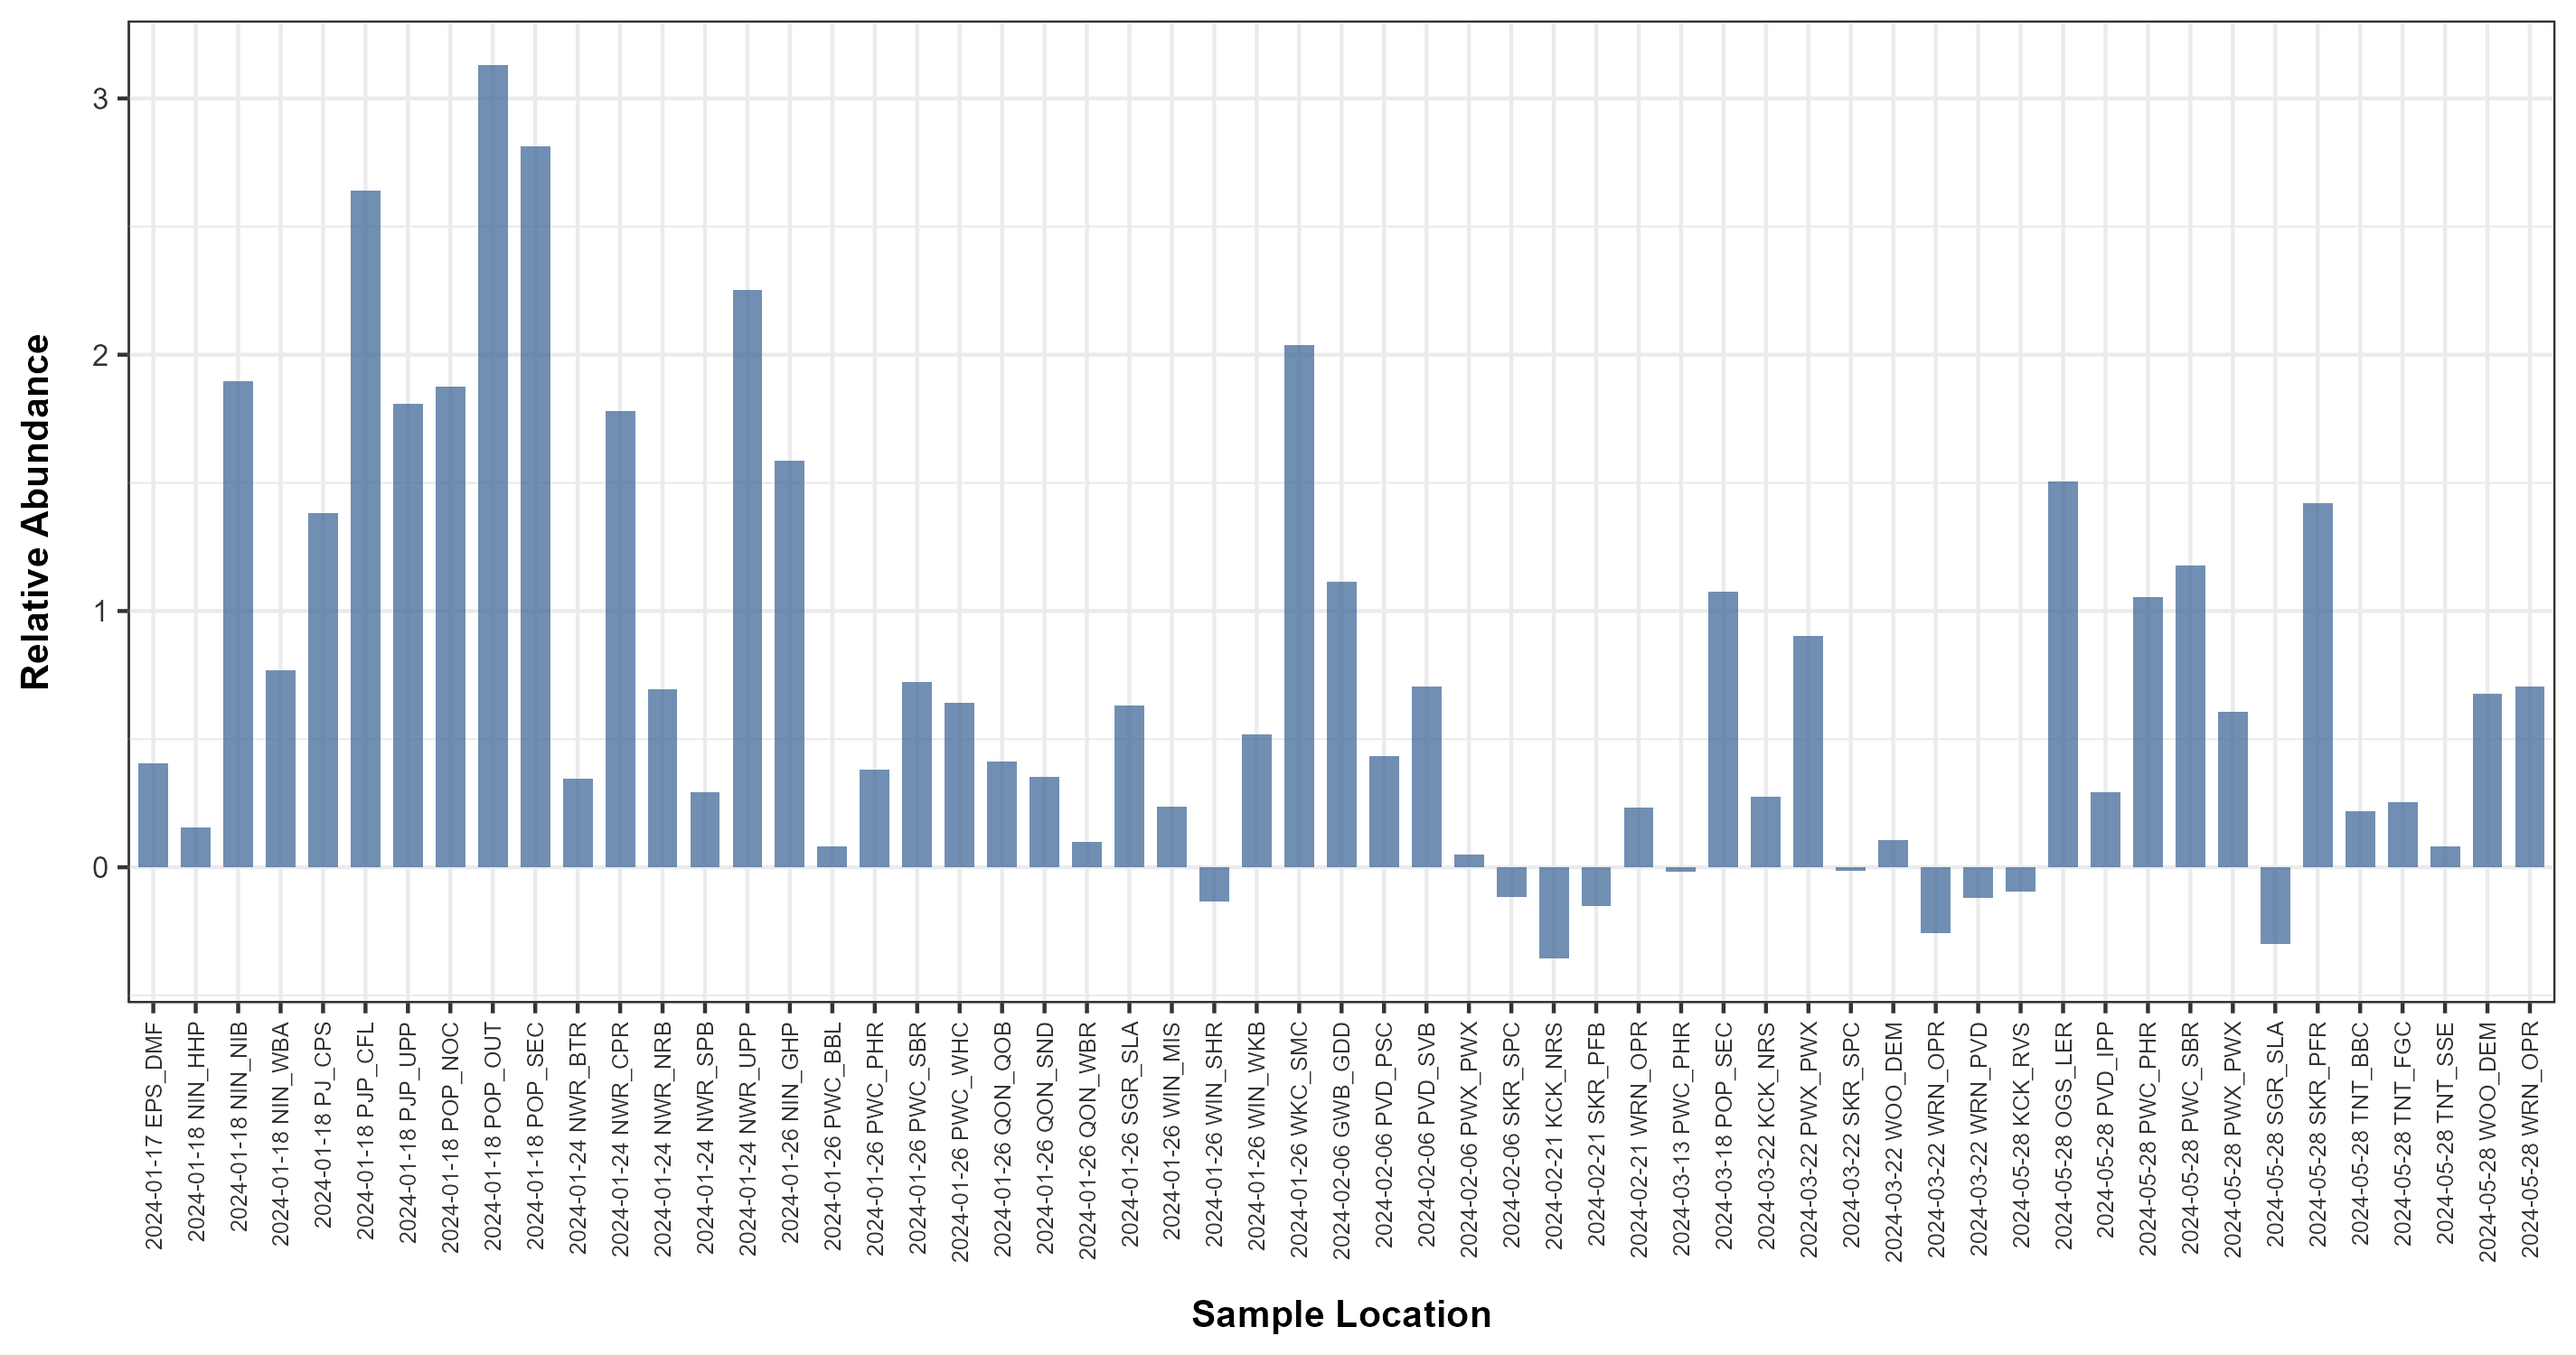
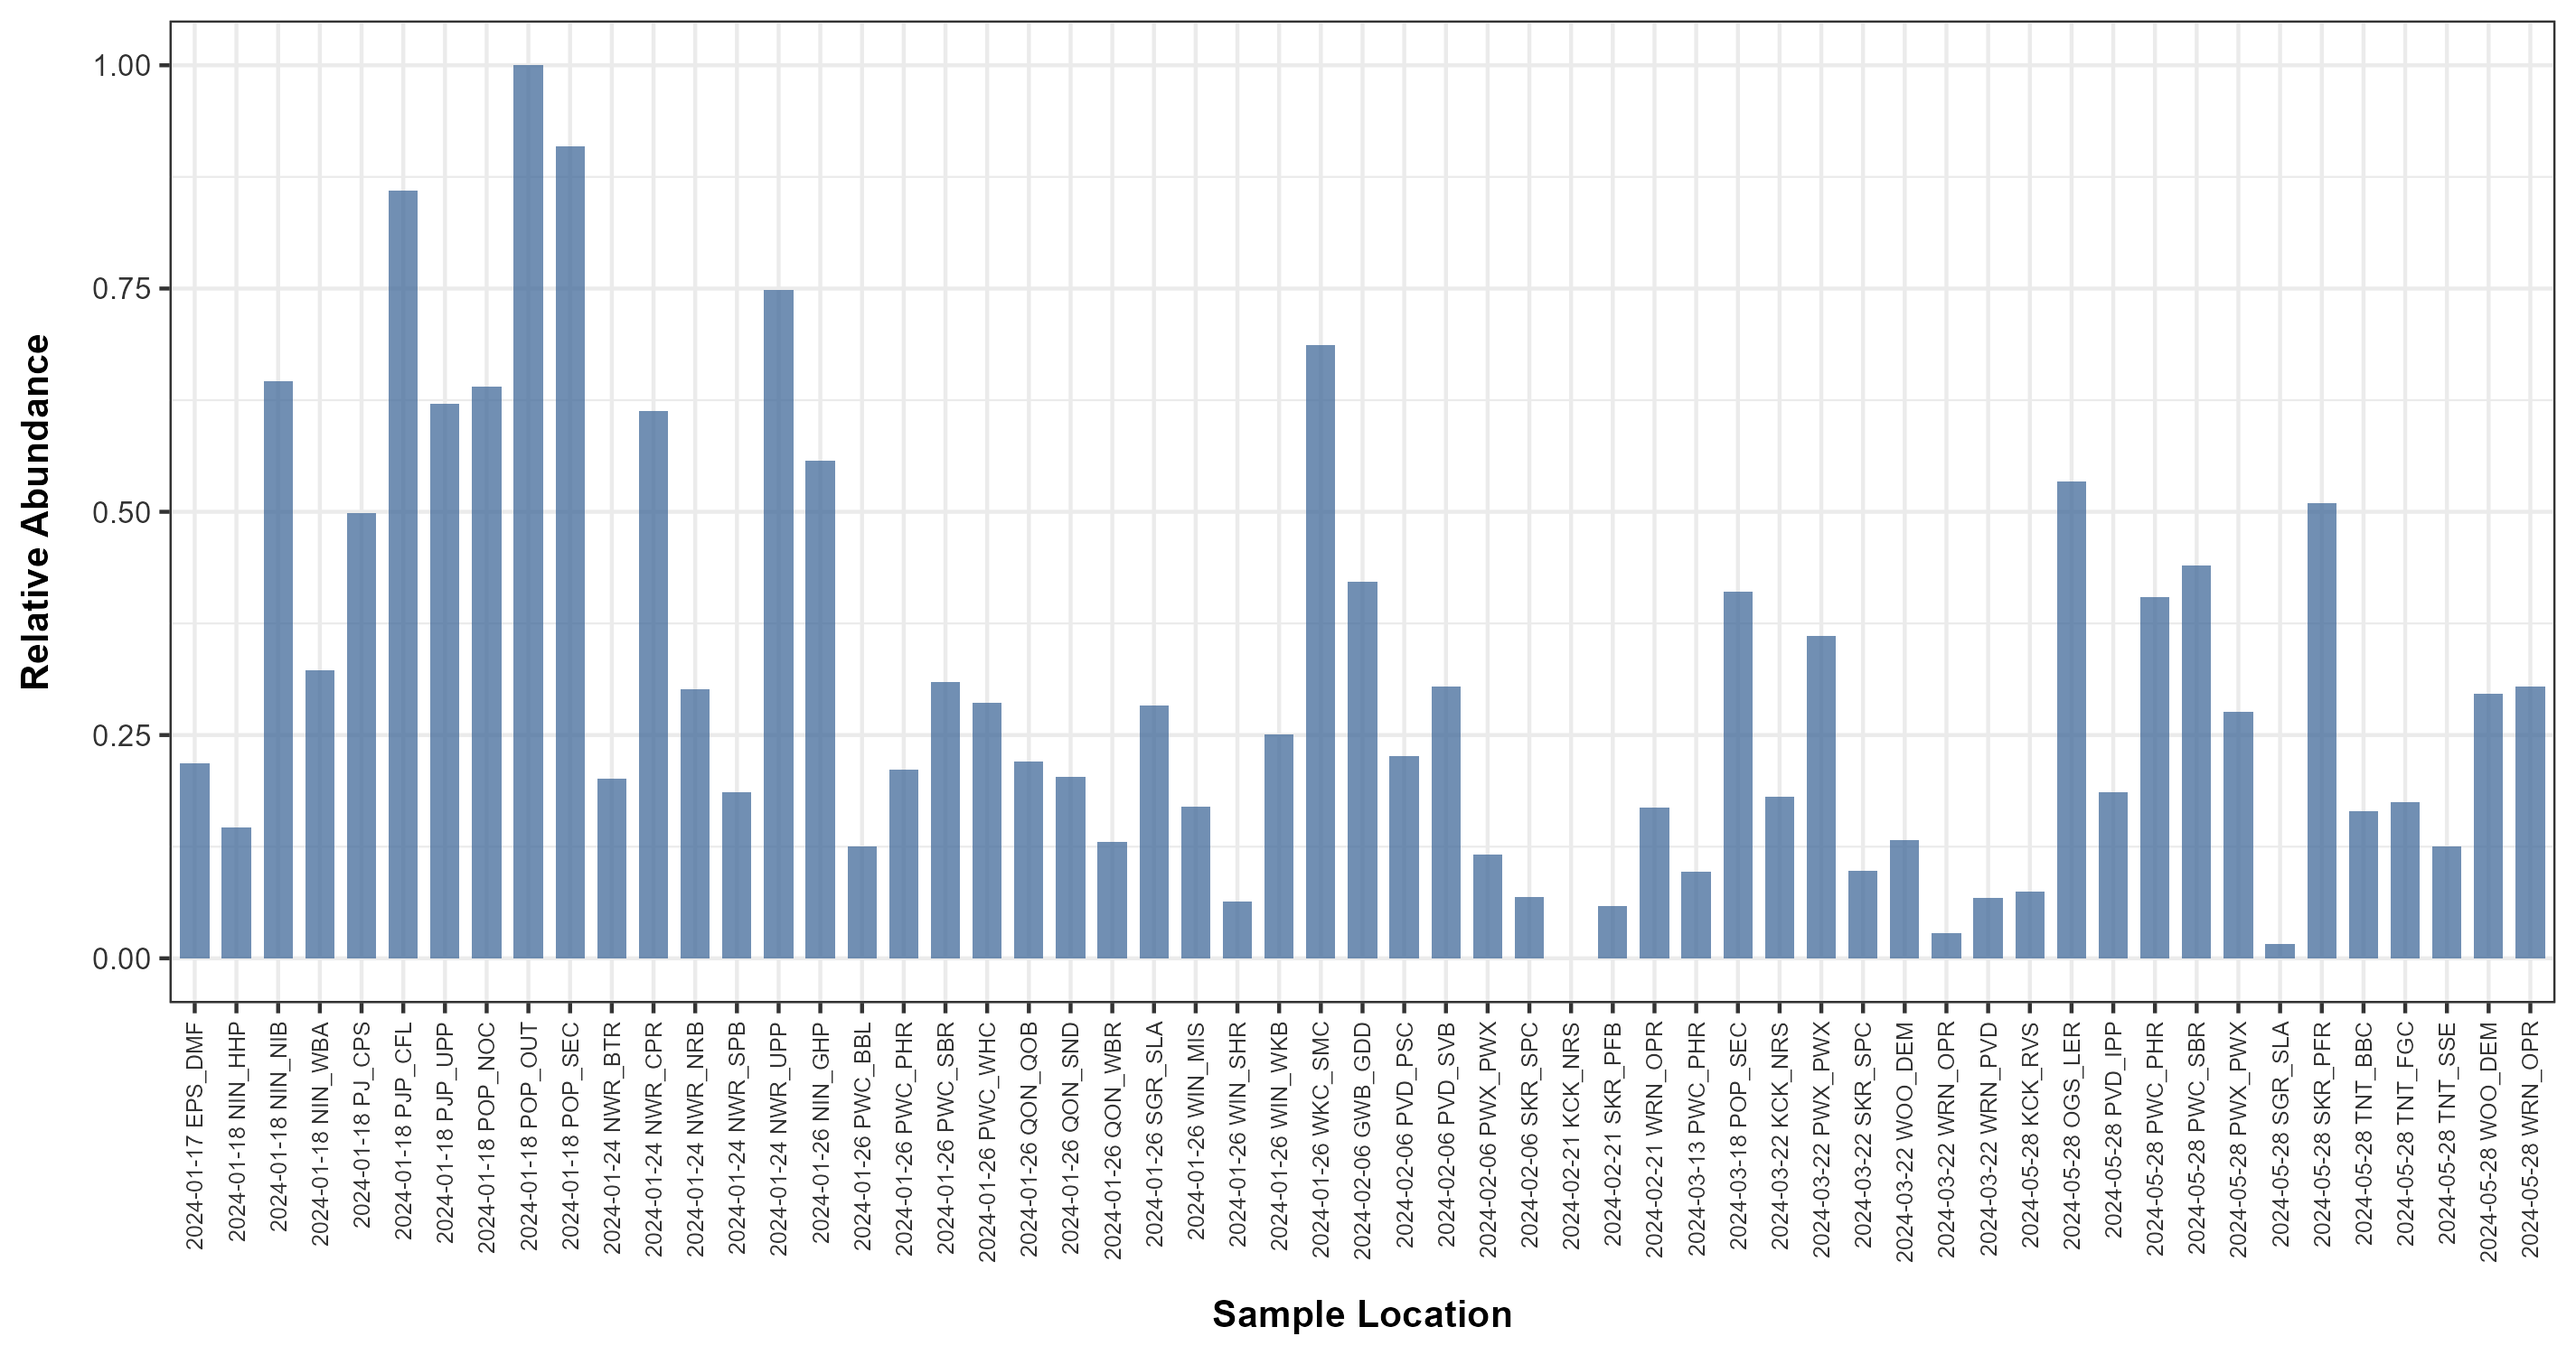
COI ampliseq and qPCR script

diff --git a/docs/eDNA qPCR/qPCR-analysis.md b/docs/eDNA qPCR/qPCR-analysis.md
@@ -280,7 +280,21 @@ samples_df <- filters_df %>% right_join(meta, ., by = "Sample_ID") %>%
 
   ## adding new SampleID back in
   unite(Sample_ID, Date, Sample_Location, sep = " ", remove=F)
+
+head(samples_df)
 ```
+
+    ## # A tibble: 6 × 8
+    ##   Sample_ID    Date                Sample_Location Sample_Type Number_of_Filters
+    ##   <chr>        <dttm>              <chr>           <chr>       <lgl>            
+    ## 1 2024-01-17 … 2024-01-17 00:00:00 DI Blank #1     Blank       NA               
+    ## 2 2024-01-17 … 2024-01-17 00:00:00 DI Blank #2     Blank       NA               
+    ## 3 2024-01-17 … 2024-01-17 00:00:00 GBP_OCA         Field       NA               
+    ## 4 2024-01-17 … 2024-01-17 00:00:00 IPC_GCO         Field       NA               
+    ## 5 2024-01-17 … 2024-01-17 00:00:00 IPC_BBC         Field       NA               
+    ## 6 2024-01-17 … 2024-01-17 00:00:00 NAN_EDI         Field       NA               
+    ## # ℹ 3 more variables: Sample_Cq <dbl>, Sample_Num_Replicates <dbl>,
+    ## #   Sample_Copy_Num <dbl>
 
 ## Normalizing data
 
@@ -301,7 +315,7 @@ normalized_df <- normalized_df %>%
   
   ## calculate relative abundance based on this log normalized value to a value 0-1 
   mutate(Relative_Abundance = 
-           Sample_Copy_Num_normalized - min(Sample_Copy_Num_normalized, na.rm=TRUE)/
+           (Sample_Copy_Num_normalized - min(Sample_Copy_Num_normalized, na.rm=TRUE))/
            (max(Sample_Copy_Num_normalized, na.rm=TRUE) - min(Sample_Copy_Num_normalized, na.rm=TRUE))
            )
 

diff --git a/docs/eDNA/01-Metabarcoding ampliseq COI.md b/docs/eDNA/01-Metabarcoding ampliseq COI.md
@@ -360,6 +360,8 @@ View the `update_ncbi_nt.out` file to confirm the echo printed at the end.
 
 COInr database [instructions](https://mkcoinr.readthedocs.io/en/latest/content/tutorial.html). There are [options](https://mkcoinr.readthedocs.io/en/latest/content/tutorial.html#add-custom-sequences-to-a-database) to include custom sequences if needed.
 
+Is this the most updated version of both BOLD and NCBI? 
+
 ```
 cd /work/gmgi/packages 
 git clone https://github.com/meglecz/mkCOInr.git
@@ -371,7 +373,7 @@ rm COInr_2022_05_06.tar.gz
 mv COInr_2022_05_06 COInr
 
 ## converting database information for blast 
-perl /work/gmgi/packages/mkCOInr/scripts/format_db.pl -tsv COInr/COInr.tsv -outfmt blast -outdir /work/gmgi/databases/COI -out COInr_blast
+perl /work/gmgi/packages/mkCOInr/scripts/format_db.pl -tsv COInr/COInr.tsv -outfmt blast -outdir /work/gmgi/databases/COI/COInr -out COInr_blast
 ```
 
 #### Download and/or update MARES program 
